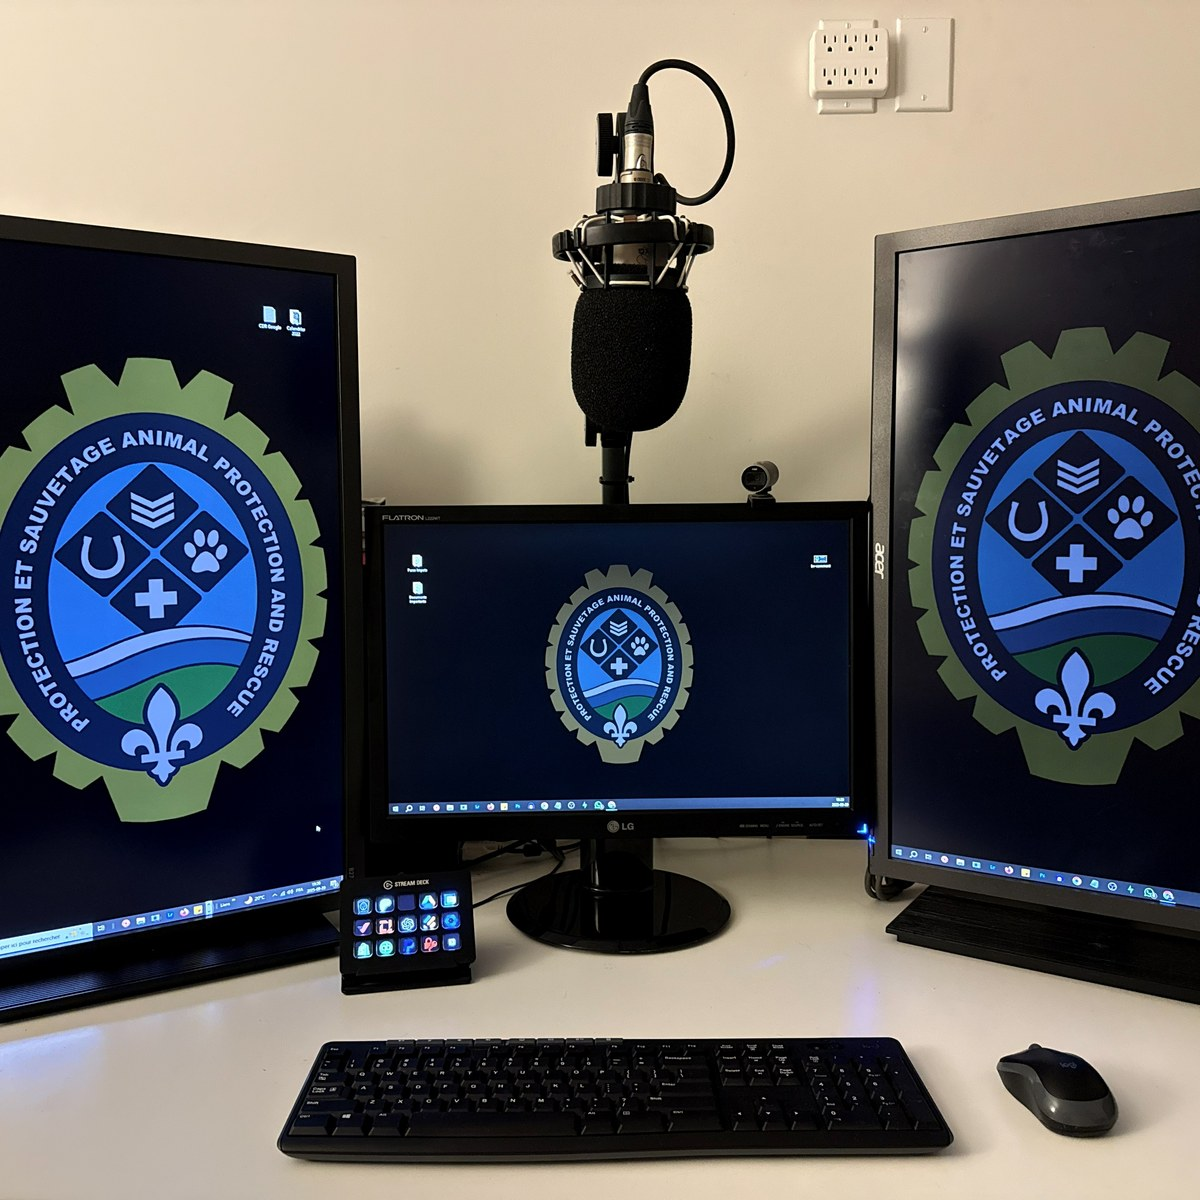
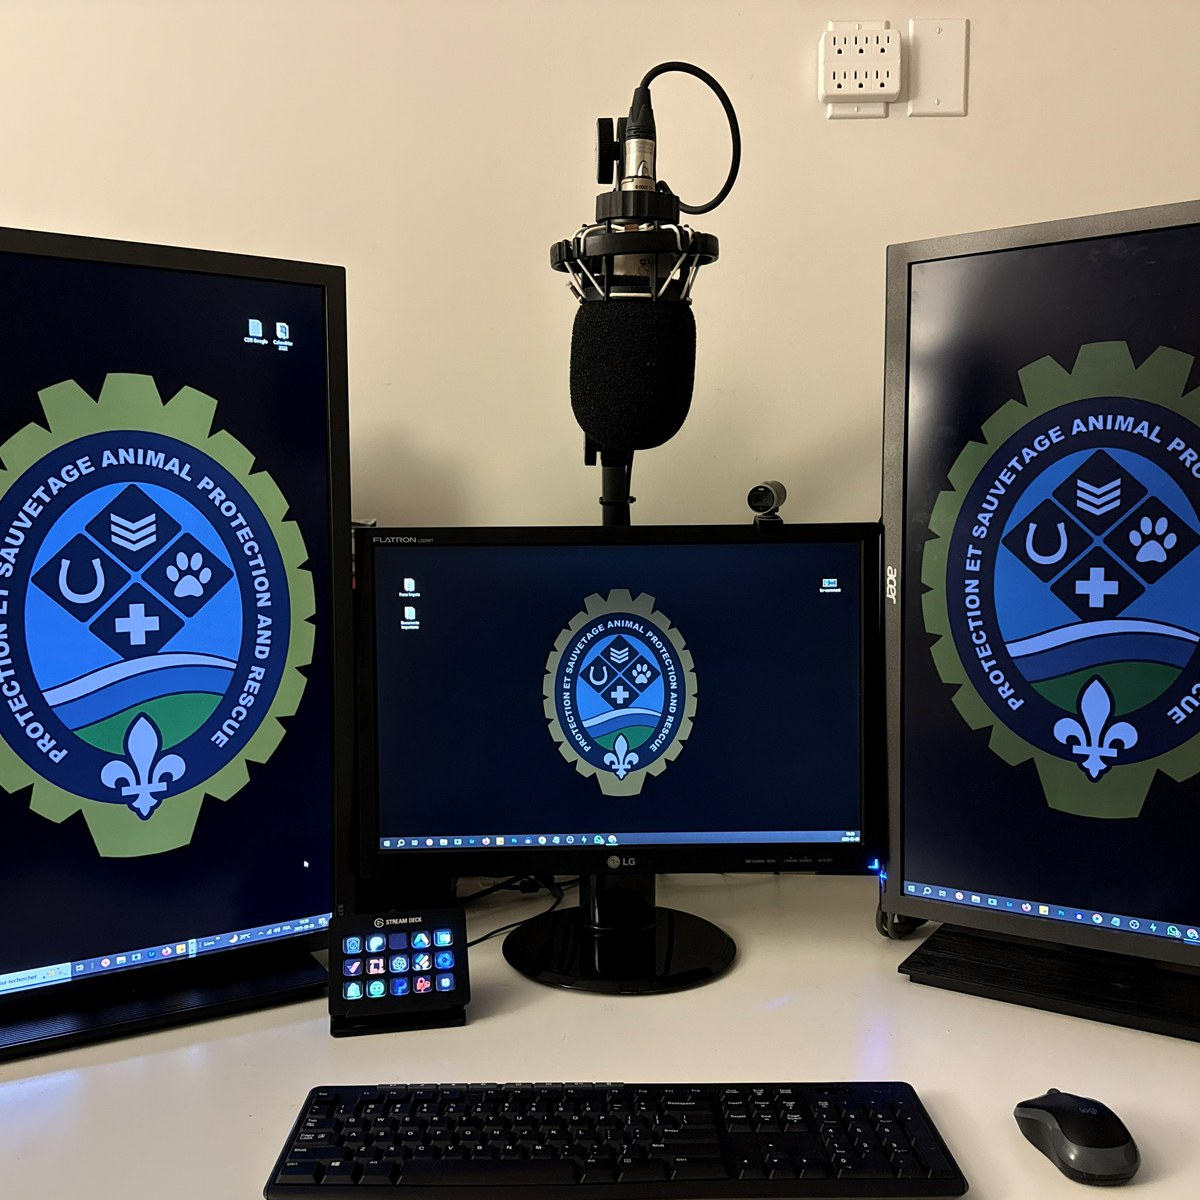
Le formulaire de candidature s'aligne sur celui de l'organisation
Reprend les champs du formulaire JotForm : adresse complète, occupation,
disponibilités en toutes lettres, expérience avec les animaux et expérience
connexe en cases à cocher, et les deux confirmations obligatoires.

Migration 0005 : nouvelles colonnes et « secouriste » ajouté aux postes
valides, les anciennes appellations restant acceptées.

La photo du répartiteur remonte d'une cinquantaine de pixels, sans zoom :
le cadrage occupait déjà toute la hauteur, la bande est retirée en bas.

diff --git a/src/components/formulaire-candidature.tsx b/src/components/formulaire-candidature.tsx
@@ -8,6 +8,12 @@ import {
 } from "@tabler/icons-react";
 import type { Locale } from "@/i18n/routing";
 import { POSTES, fichePoste } from "@/contenu/postes";
+import {
+  OCCUPATIONS,
+  EXPERIENCES_ANIMAUX,
+  EXPERIENCES_CONNEXES,
+  libelle,
+} from "@/contenu/experiences";
 import { ORGANISATION } from "@/lib/constantes";
 import {
   envoyerCandidature,
@@ -22,6 +28,45 @@ const DISPONIBILITES = [
   "nuit",
   "surAppel",
 ] as const;
+
+// Les longues listes du formulaire sont rendues en cases à cocher plutôt
+// qu'en menu déroulant : on voit tout d'un coup d'oeil et on peut cocher
+// plusieurs réponses, ce qu'un menu ne permet pas.
+function ListeCases({
+  legende,
+  nom,
+  choix,
+  locale,
+}: {
+  legende: string;
+  nom: string;
+  choix: { cle: string; fr: string; en: string; es: string }[];
+  locale: Locale;
+}) {
+  return (
+    <fieldset>
+      <legend className="mb-2 text-sm font-medium text-foreground">
+        {legende}
+      </legend>
+      <div className="grid gap-2 sm:grid-cols-2">
+        {choix.map((c) => (
+          <label
+            key={c.cle}
+            className="flex cursor-pointer items-center gap-2 rounded-md border border-border px-3 py-2 text-sm"
+          >
+            <input
+              type="checkbox"
+              name={nom}
+              value={c.cle}
+              className="size-4 shrink-0 accent-[var(--marine)]"
+            />
+            {libelle(c, locale)}
+          </label>
+        ))}
+      </div>
+    </fieldset>
+  );
+}
 
 const CLASSE_CHAMP =
   "w-full rounded-md border border-border bg-surface px-3 py-2.5 text-foreground outline-none transition focus:border-ciel focus:ring-2 focus:ring-ciel/30";
@@ -107,10 +152,24 @@ export function FormulaireCandidature({
         </label>
       </div>
 
+      <label className="block">
+        <span className="mb-1 block text-sm font-medium">{c("adresseRue")}</span>
+        <input name="adresseRue" required className={CLASSE_CHAMP} />
+      </label>
+
       <div className="grid gap-5 sm:grid-cols-3">
         <label className="block">
           <span className="mb-1 block text-sm font-medium">{c("ville")}</span>
           <input name="ville" required className={CLASSE_CHAMP} />
+        </label>
+        <label className="block">
+          <span className="mb-1 block text-sm font-medium">{c("province")}</span>
+          <input
+            name="province"
+            defaultValue="Québec"
+            required
+            className={CLASSE_CHAMP}
+          />
         </label>
         <label className="block">
           <span className="mb-1 block text-sm font-medium">
@@ -127,6 +186,18 @@ export function FormulaireCandidature({
           <input type="date" name="dateNaissance" className={CLASSE_CHAMP} />
         </label>
       </div>
+
+      <label className="block">
+        <span className="mb-1 block text-sm font-medium">{c("occupation")}</span>
+        <select name="occupation" required className={CLASSE_CHAMP}>
+          <option value="">{c("choisir")}</option>
+          {OCCUPATIONS.map((o) => (
+            <option key={o.cle} value={o.cle}>
+              {libelle(o, locale)}
+            </option>
+          ))}
+        </select>
+      </label>
 
       <fieldset>
         <legend className="mb-2 text-sm font-medium text-foreground">
@@ -171,6 +242,25 @@ export function FormulaireCandidature({
 
       <label className="block">
         <span className="mb-1 block text-sm font-medium">
+          {c("disponibilitesTexte")}
+        </span>
+        <textarea
+          name="disponibilitesTexte"
+          rows={2}
+          required
+          className={CLASSE_CHAMP}
+        />
+      </label>
+
+      <ListeCases
+        legende={c("experienceAnimaux")}
+        nom="experienceAnimaux"
+        choix={EXPERIENCES_ANIMAUX}
+        locale={locale}
+      />
+
+      <label className="block">
+        <span className="mb-1 block text-sm font-medium">
           {c("experience")}{" "}
           <span className="font-normal text-muted">({c("facultatif")})</span>
         </span>
@@ -178,6 +268,25 @@ export function FormulaireCandidature({
           name="experience"
           rows={3}
           placeholder={c("experienceAide")}
+          className={CLASSE_CHAMP}
+        />
+      </label>
+
+      <ListeCases
+        legende={c("experienceConnexe")}
+        nom="experienceConnexe"
+        choix={EXPERIENCES_CONNEXES}
+        locale={locale}
+      />
+
+      <label className="block">
+        <span className="mb-1 block text-sm font-medium">
+          {c("experienceConnexeTexte")}{" "}
+          <span className="font-normal text-muted">({c("facultatif")})</span>
+        </span>
+        <textarea
+          name="experienceConnexeTexte"
+          rows={3}
           className={CLASSE_CHAMP}
         />
       </label>
@@ -194,6 +303,30 @@ export function FormulaireCandidature({
         </span>
         <input name="reference" className={CLASSE_CHAMP} />
       </label>
+
+      {/* Les deux confirmations du formulaire actuel. Elles protègent autant
+          la personne que l'organisation : personne ne repart en croyant être
+          retenu, et l'âge minimal est établi avant l'entrevue. */}
+      <div className="space-y-2 rounded-md border border-border bg-surface-2 p-4">
+        <label className="flex cursor-pointer items-start gap-3 text-sm">
+          <input
+            type="checkbox"
+            name="confirmeSelection"
+            required
+            className="mt-0.5 size-4 shrink-0 accent-[var(--marine)]"
+          />
+          {c("confirmeSelection")}
+        </label>
+        <label className="flex cursor-pointer items-start gap-3 text-sm">
+          <input
+            type="checkbox"
+            name="confirmeMajeur"
+            required
+            className="mt-0.5 size-4 shrink-0 accent-[var(--marine)]"
+          />
+          {c("confirmeMajeur")}
+        </label>
+      </div>
 
       <button
         type="submit"

diff --git a/src/contenu/experiences.ts b/src/contenu/experiences.ts
@@ -1,0 +1,67 @@
+import type { Locale } from "@/i18n/routing";
+
+// Les listes du formulaire de recrutement, reprises telles quelles du
+// formulaire utilisé par l'organisation. L'ordre est celui d'origine : il a
+// été pensé pour que la personne trouve sa situation rapidement.
+
+type Choix = { cle: string; fr: string; en: string; es: string };
+
+export const OCCUPATIONS: Choix[] = [
+  { cle: "etudiantPartiel", fr: "Étudiant·e à temps partiel", en: "Part-time student", es: "Estudiante a tiempo parcial" },
+  { cle: "etudiantPlein", fr: "Étudiant·e à temps plein", en: "Full-time student", es: "Estudiante a tiempo completo" },
+  { cle: "employePartiel", fr: "Employé·e à temps partiel", en: "Part-time employee", es: "Empleado·a a tiempo parcial" },
+  { cle: "employePlein", fr: "Employé·e à temps plein", en: "Full-time employee", es: "Empleado·a a tiempo completo" },
+  { cle: "autonome", fr: "Travailleur·euse autonome", en: "Self-employed", es: "Trabajador·a autónomo·a" },
+  { cle: "sansEmploi", fr: "Sans emploi", en: "Unemployed", es: "Sin empleo" },
+  { cle: "autre", fr: "Autre", en: "Other", es: "Otro" },
+];
+
+export const EXPERIENCES_ANIMAUX: Choix[] = [
+  { cle: "aucune", fr: "Aucune expérience avec les animaux", en: "No experience with animals", es: "Sin experiencia con animales" },
+  { cle: "manipulation", fr: "Manipulation des animaux", en: "Animal handling", es: "Manejo de animales" },
+  { cle: "soins", fr: "Soins des animaux", en: "Animal care", es: "Cuidado de animales" },
+  { cle: "animalier", fr: "Animalier·ère", en: "Animal attendant", es: "Cuidador·a de animales" },
+  { cle: "tsa", fr: "Technicien·ne en santé animale", en: "Animal health technician", es: "Técnico·a en salud animal" },
+  { cle: "veterinaire", fr: "Vétérinaire", en: "Veterinarian", es: "Veterinario·a" },
+  { cle: "servicesAnimaliers", fr: "Services animaliers", en: "Animal services", es: "Servicios animales" },
+  { cle: "ferme", fr: "Animaux de ferme", en: "Farm animals", es: "Animales de granja" },
+  { cle: "faune", fr: "Animaux de la faune", en: "Wildlife", es: "Fauna silvestre" },
+  { cle: "chevaux", fr: "Chevaux", en: "Horses", es: "Caballos" },
+  { cle: "benevoleFaune", fr: "Bénévole dans un refuge de la faune", en: "Volunteer in a wildlife shelter", es: "Voluntario·a en un refugio de fauna" },
+  { cle: "benevoleServices", fr: "Bénévole dans un service animalier", en: "Volunteer in an animal service", es: "Voluntario·a en un servicio animal" },
+  { cle: "benevoleRefuge", fr: "Bénévole dans un refuge pour chat ou chien", en: "Volunteer in a cat or dog shelter", es: "Voluntario·a en un refugio de perros o gatos" },
+  { cle: "autre", fr: "Autre", en: "Other", es: "Otro" },
+];
+
+export const EXPERIENCES_CONNEXES: Choix[] = [
+  { cle: "escalade", fr: "Escalade", en: "Climbing", es: "Escalada" },
+  { cle: "sauvetageAquatique", fr: "Sauvetage plage ou piscine", en: "Beach or pool lifeguarding", es: "Salvamento en playa o piscina" },
+  { cle: "plongee", fr: "Plongée sous-marine", en: "Scuba diving", es: "Buceo" },
+  { cle: "premiersSoins", fr: "Premiers soins", en: "First aid", es: "Primeros auxilios" },
+  { cle: "premierRepondant", fr: "Premier répondant", en: "First responder", es: "Primer respondiente" },
+  { cle: "paramedic", fr: "Paramédic", en: "Paramedic", es: "Paramédico·a" },
+  { cle: "infirmier", fr: "Infirmier·ère", en: "Nurse", es: "Enfermero·a" },
+  { cle: "medecin", fr: "Médecin", en: "Physician", es: "Médico·a" },
+  { cle: "pompier", fr: "Pompier·ère", en: "Firefighter", es: "Bombero·a" },
+  { cle: "policier", fr: "Policier·ère", en: "Police officer", es: "Policía" },
+  { cle: "securitePublique", fr: "Sécurité publique ou sécurité civile", en: "Public safety or civil protection", es: "Seguridad pública o protección civil" },
+  { cle: "securitePrivee", fr: "Sécurité privée ou transport de valeurs", en: "Private security or armoured transport", es: "Seguridad privada o transporte de valores" },
+  { cle: "protectionFaune", fr: "Protection de la faune", en: "Wildlife protection", es: "Protección de la fauna" },
+  { cle: "sauvetageSpecialise", fr: "Sauvetage spécialisé", en: "Specialised rescue", es: "Rescate especializado" },
+  { cle: "espacesClos", fr: "Espaces clos", en: "Confined spaces", es: "Espacios confinados" },
+  { cle: "hauteur", fr: "Hauteur", en: "Work at height", es: "Trabajo en altura" },
+  { cle: "glace", fr: "Glace", en: "Ice", es: "Hielo" },
+  { cle: "nautique", fr: "Nautique", en: "Boating", es: "Náutica" },
+  { cle: "navigation", fr: "Navigation, cartes et boussole", en: "Navigation, maps and compass", es: "Navegación, mapas y brújula" },
+  { cle: "armes", fr: "Armes à feu", en: "Firearms", es: "Armas de fuego" },
+  { cle: "drone", fr: "Pilote de drone avec permis de Transports Canada", en: "Drone pilot with a Transport Canada certificate", es: "Piloto de dron con licencia de Transport Canada" },
+  { cle: "pilote", fr: "Pilote d'avion ou d'hélicoptère", en: "Aeroplane or helicopter pilot", es: "Piloto de avión o helicóptero" },
+  { cle: "photo", fr: "Photographie ou vidéo", en: "Photography or video", es: "Fotografía o vídeo" },
+  { cle: "administration", fr: "Comptabilité ou administration", en: "Accounting or administration", es: "Contabilidad o administración" },
+  { cle: "aucune", fr: "Aucune de ces réponses", en: "None of these", es: "Ninguna de estas" },
+  { cle: "autre", fr: "Autre", en: "Other", es: "Otro" },
+];
+
+export function libelle(choix: Choix, langue: Locale) {
+  return choix[langue] ?? choix.fr;
+}

diff --git a/src/lib/actions/candidature.ts b/src/lib/actions/candidature.ts
@@ -14,9 +14,11 @@ export type EtatCandidature =
 const POSTES_VALIDES = [
   "repartiteur",
   "messager",
+  "secouriste",
+  "sauveteur",
+  // Anciennes appellations, encore acceptées.
   "eclaireur",
   "patrouilleur",
-  "sauveteur",
 ];
 
 function texte(donnees: FormData, cle: string) {
@@ -47,9 +49,9 @@ export async function envoyerCandidature(
   }
 
   const langue = (await getLocale()) as Locale;
-  const disponibilites = donnees
-    .getAll("disponibilites")
-    .filter((v): v is string => typeof v === "string");
+  const cases = (cle: string) =>
+    donnees.getAll(cle).filter((v): v is string => typeof v === "string");
+  const disponibilites = cases("disponibilites");
 
   const { error } = await creerClientAdmin().from("candidatures").insert({
     poste,
@@ -58,12 +60,22 @@ export async function envoyerCandidature(
     courriel,
     telephone,
     ville,
+    adresse_rue: texte(donnees, "adresseRue") || null,
+    province: texte(donnees, "province") || null,
     code_postal: texte(donnees, "codePostal") || null,
     date_naissance: texte(donnees, "dateNaissance") || null,
     langue,
     a_vehicule: donnees.get("vehicule") === "on",
     a_permis: donnees.get("permis") === "on",
     disponibilites,
+    occupation: texte(donnees, "occupation") || null,
+    disponibilites_texte: texte(donnees, "disponibilitesTexte") || null,
+    experience_animaux: cases("experienceAnimaux"),
+    experience_connexe: cases("experienceConnexe"),
+    experience_connexe_texte:
+      texte(donnees, "experienceConnexeTexte") || null,
+    confirme_selection: donnees.get("confirmeSelection") === "on",
+    confirme_majeur: donnees.get("confirmeMajeur") === "on",
     experience: texte(donnees, "experience") || null,
     motivation: texte(donnees, "motivation") || null,
     reference: texte(donnees, "reference") || null,
